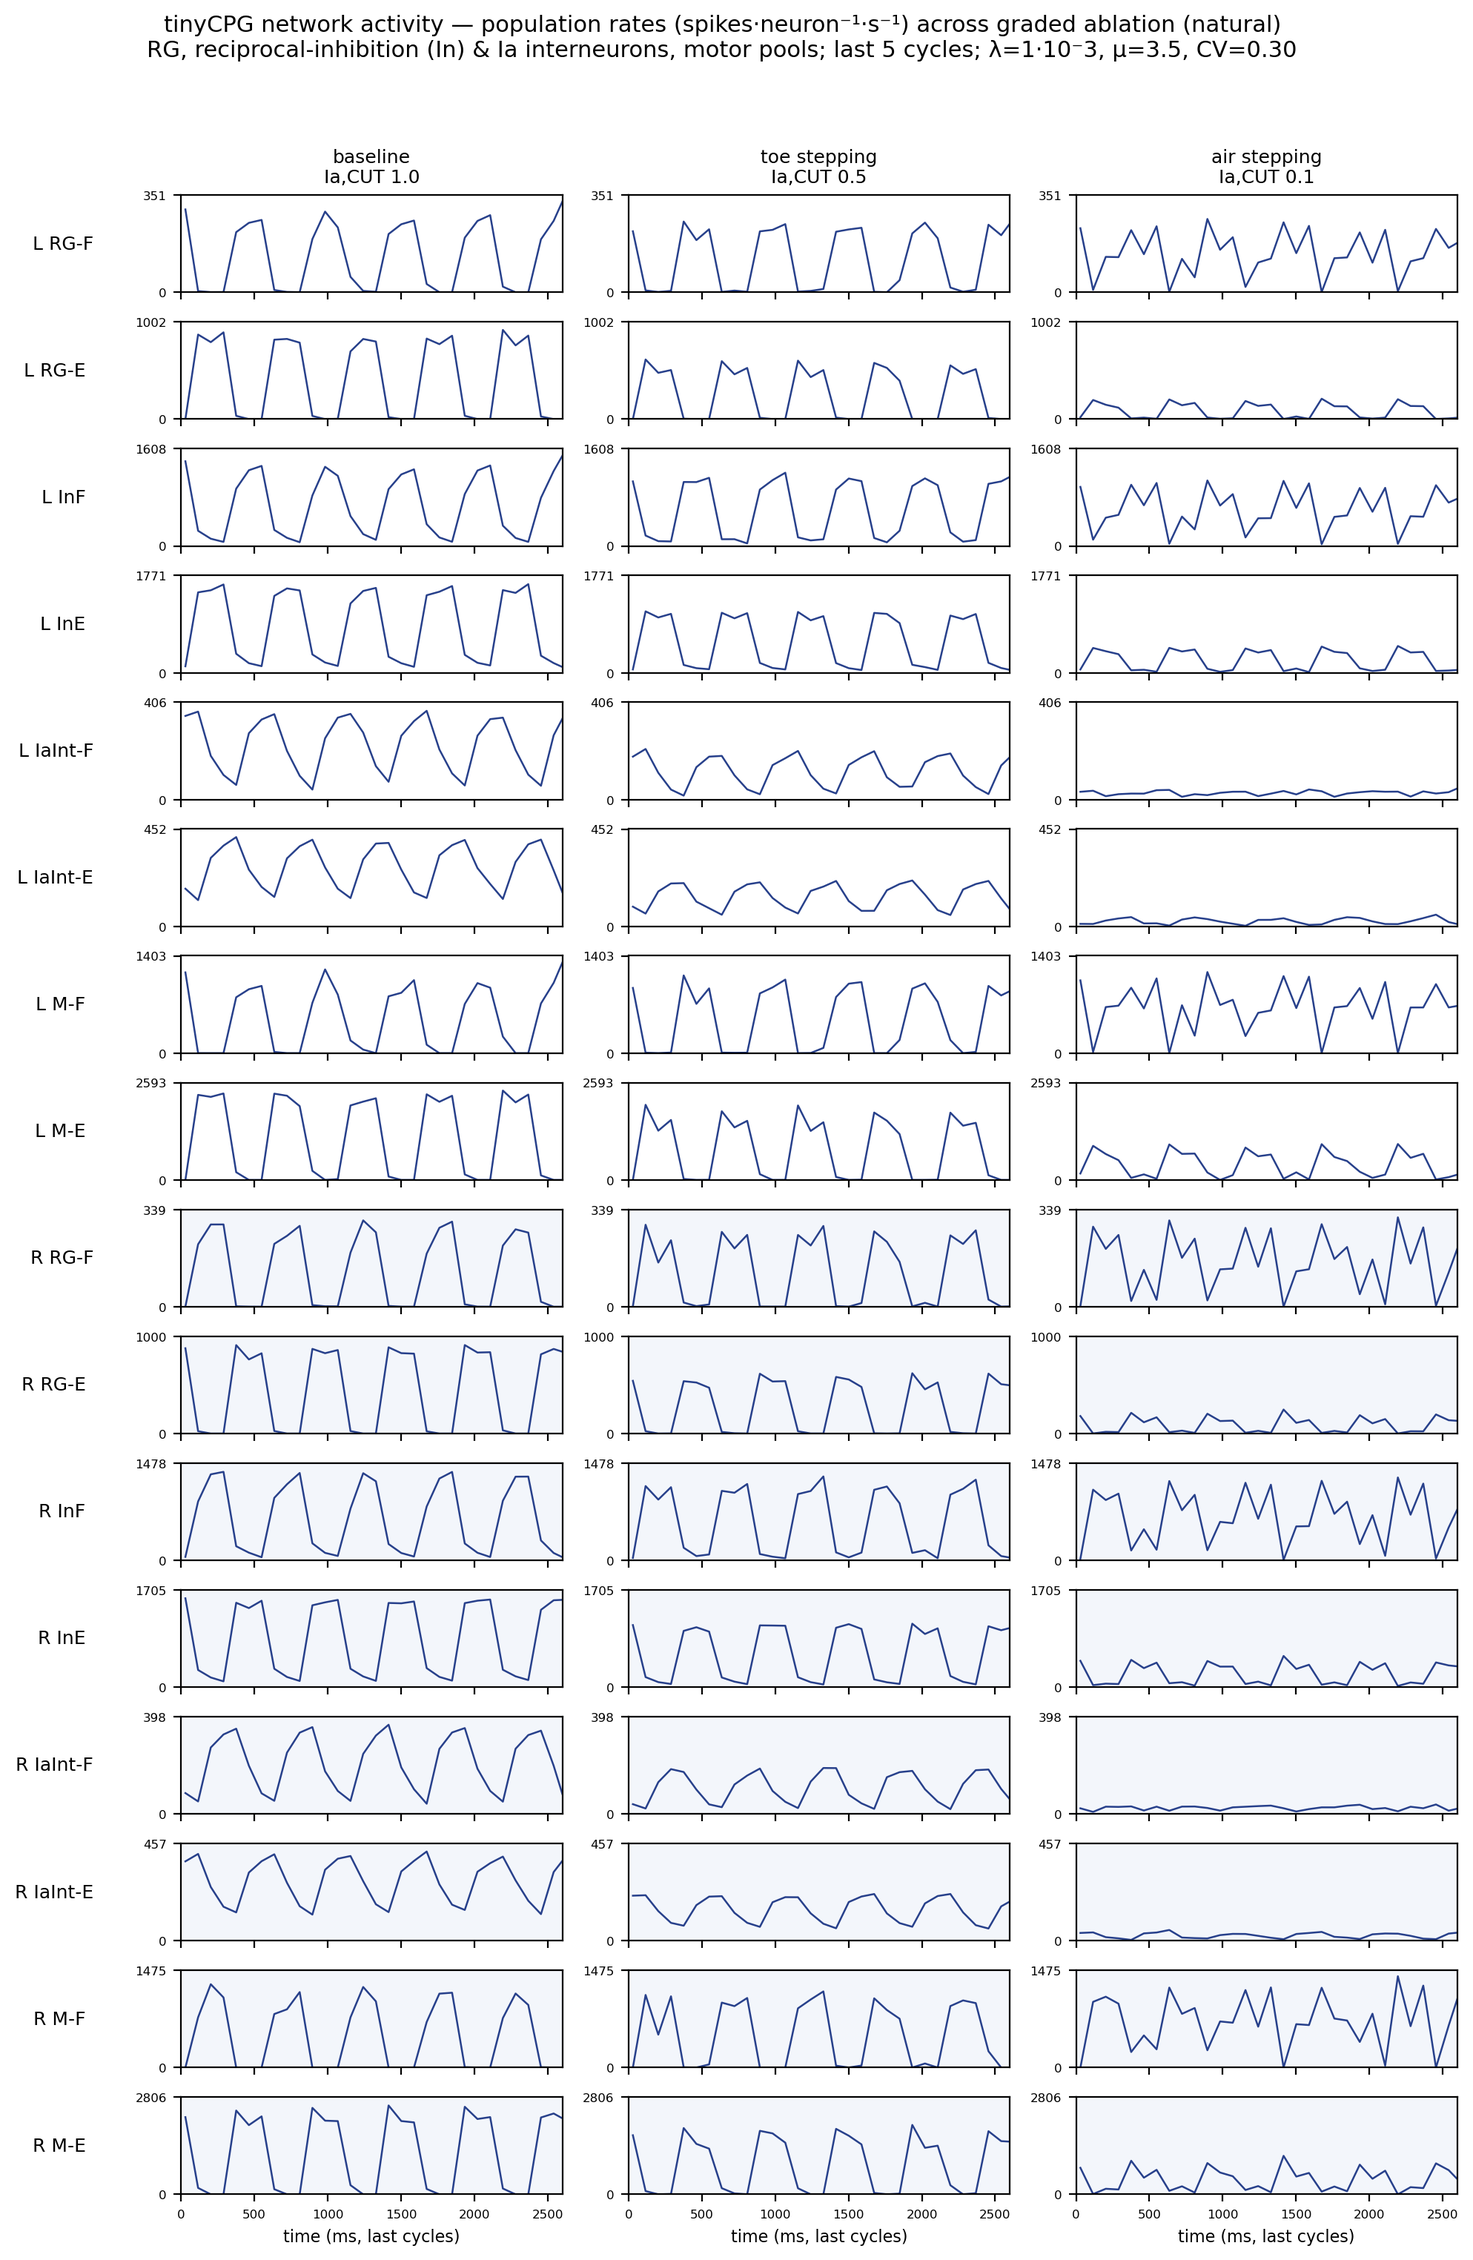
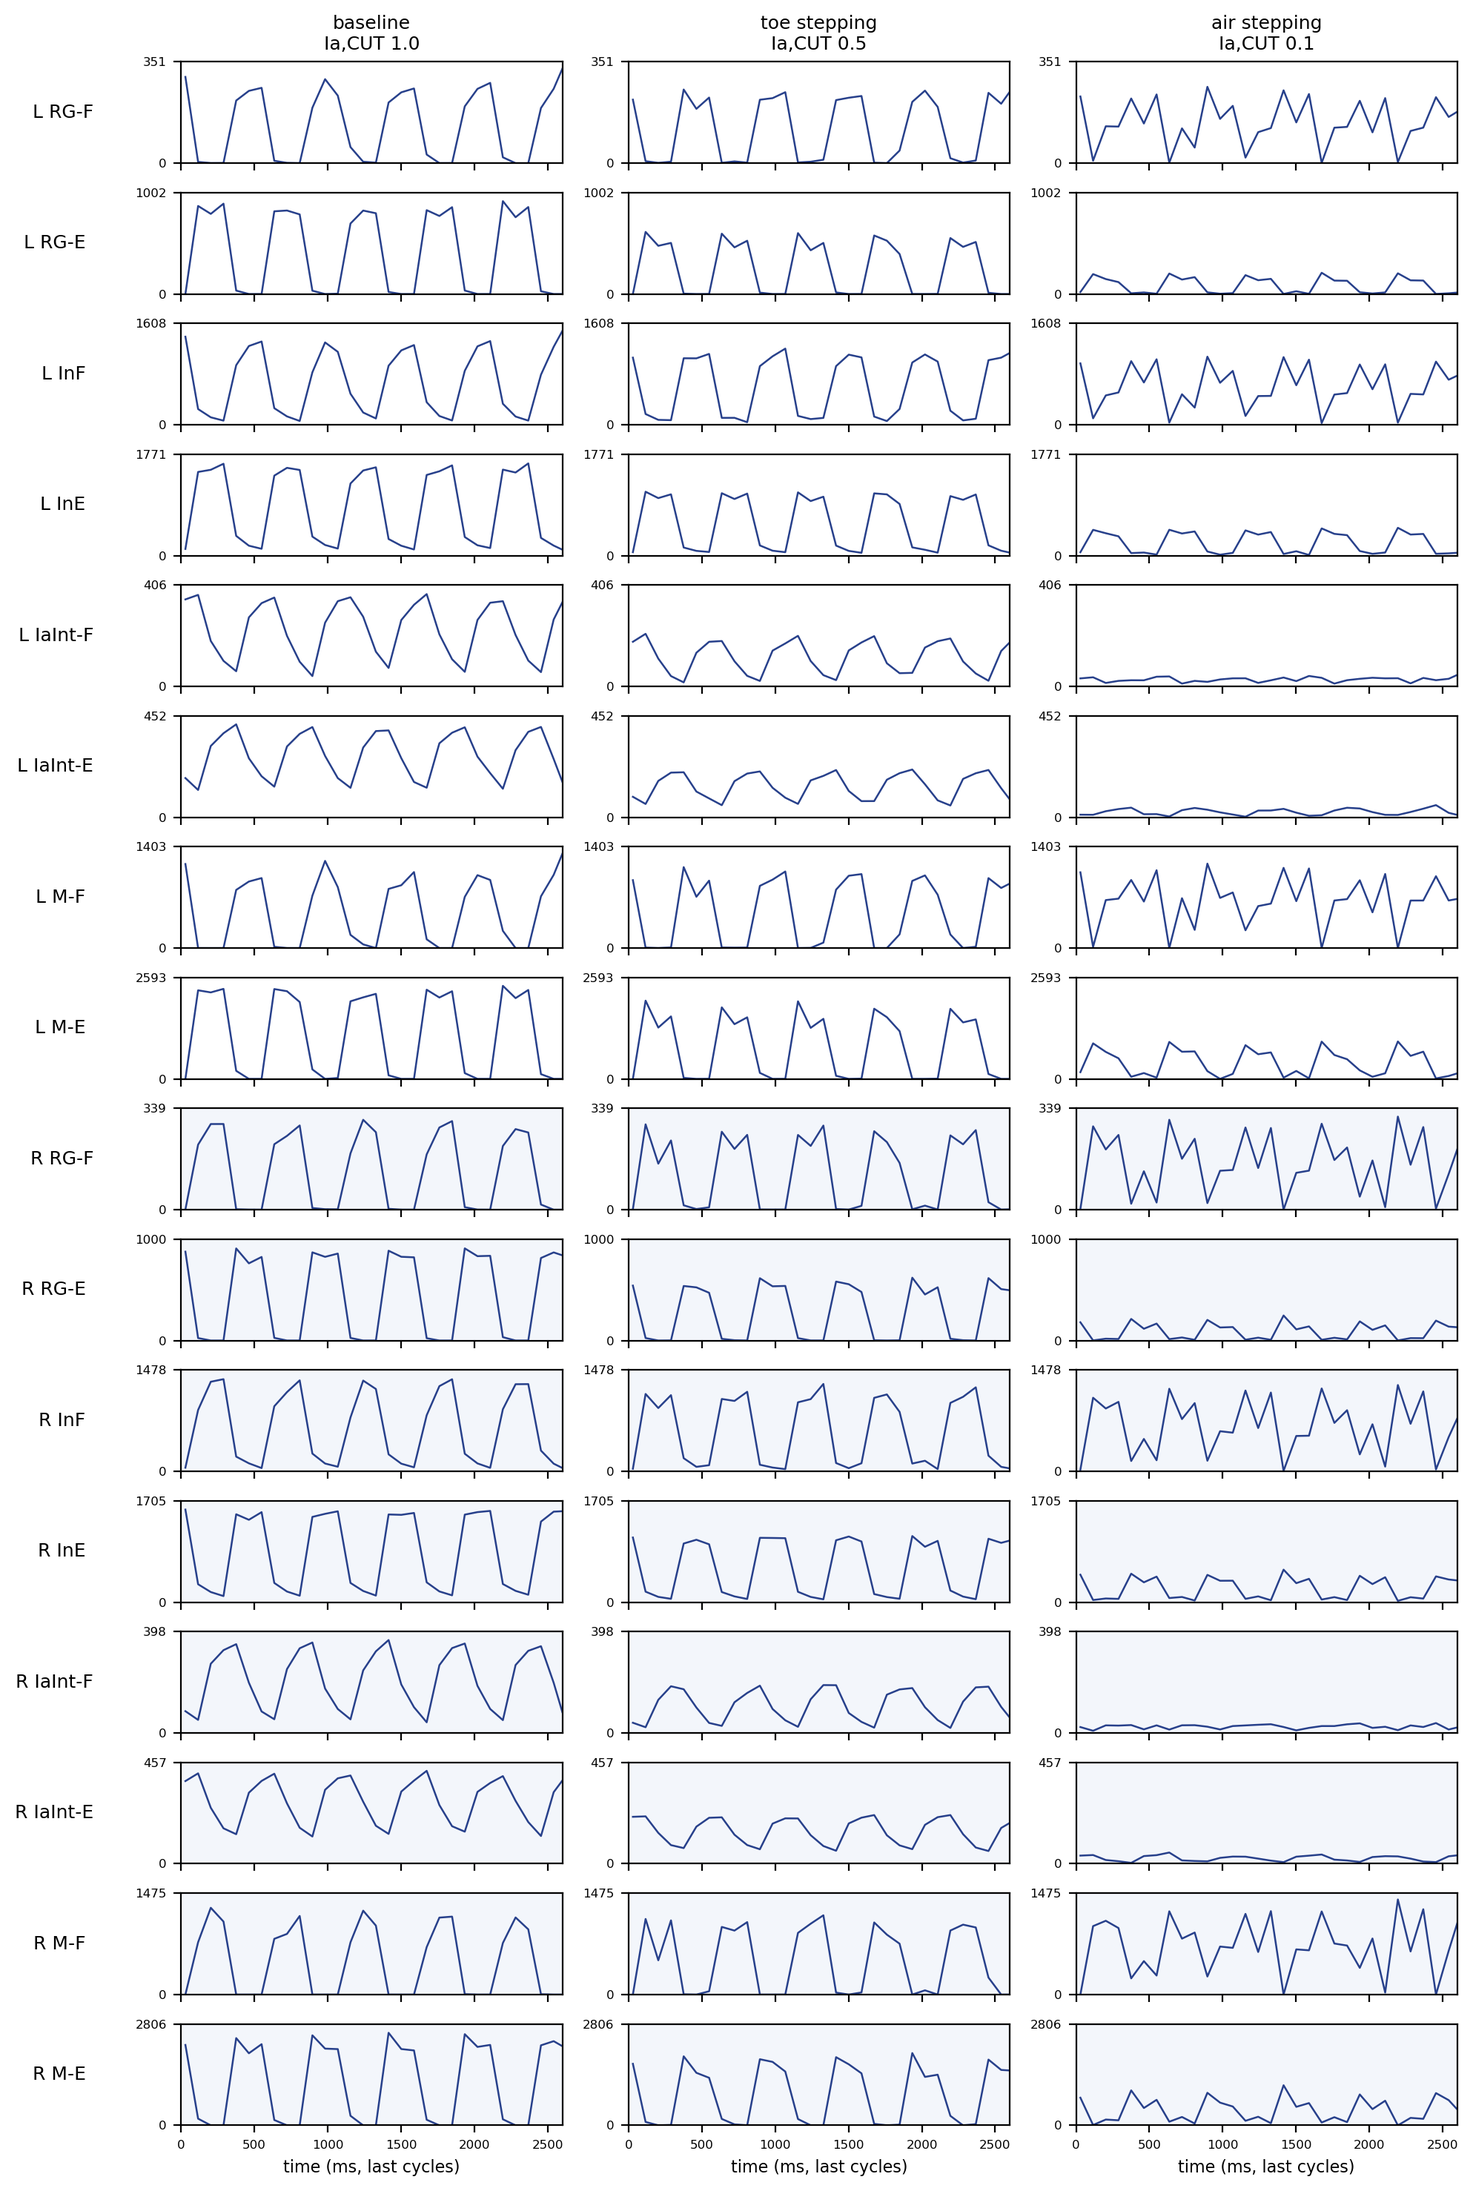
Figure review: strip in-figure titles (item 7), clarify captions (3/8/9), drop BS panel (6)
- Item 7: removed fig.suptitle() from 8 figure scripts (init_convergence, force_stages,
  speed_stdp, network_activity, epidural_contrast, ablation_graded, frozen,
  descending_vs_sensory); all info now lives in the LaTeX captions. Regenerated the
  affected figures into paper/figures/.
- Item 3: fig_init_convergence caption gets a plain "main idea" lead (learned weight is
  a network property, not a tuned value).
- Item 8: fig8_frozen_control caption gets a plain-language lead (is learning necessary
  or is the converged distribution enough?).
- Item 9: fig_descending_vs_sensory caption gets a "does it matter where plasticity
  lives?" lead.
- Item 6: removed the BS->RG-E panel (e) from fig5_speed_stdp (BS is frozen in the
  canonical sensory model; per-projection weights live in fig_stdp_weight_matrix).
  Spectral-concentration tile now spans; text refs to panel (e)/BS updated.

Overleaf zip rebuilt (16 figures, no \au, results todo-free).

diff --git a/paper/sections/results.tex b/paper/sections/results.tex
@@ -1,7 +1,7 @@
 % Results — target 1500-2200 words for PLOS Comp Bio.
 %
 % Anchored on four figures:
-%   Fig 2 (fig2_main.png)             = main combined summary (120 s + STDP convergence)
+%   fig_stdp_weight_matrix.png        = STDP weights: both legs x 3 projections x 5 modes
 %   Fig 5 (fig5_speed_stdp.png)       = Phase A — speed × STDP learning rate matrix
 %   Fig 6 (fig6_ablation_graded.png)  = Phase B — graded sensory ablation × STDP matrix
 %
@@ -27,9 +27,11 @@ the identical attractor.
 \begin{figure}[t]
   \centering
   \includegraphics[width=0.8\textwidth]{fig_init_convergence.png}
-  \caption{\textbf{Initialisation-robustness of STDP self-organisation}
-    (descending arm, medium walk, $\lambda=10^{-3}$, bio-plausible
-    defaults). \textbf{(a)} Mean CUT$\to$RG-E weight trajectory for each
+  \caption{\textbf{Initialisation-robustness of STDP self-organisation.}
+    \emph{Main idea: the learned synaptic weight is a property of the
+    network dynamics, not a value we tune --- whatever the weights start
+    at, STDP drives them to the same place.} Medium walk, $\lambda=10^{-3}$,
+    bio-plausible defaults. \textbf{(a)} Mean CUT$\to$RG-E weight trajectory for each
     of the ten $(\mu,\mathrm{CV})$ initial-weight points (colour = initial
     $\mu$); all converge to the same plateau (dashed) by $t\approx7$--%
     $10\,$s, the smallest initial weights ($\mu=0$) taking only a few
@@ -218,14 +220,15 @@ rate ($\lambda=10^{-3}$) is strongest ($-0.95$)
     a.u.); (c) E$\leftrightarrow$F counter-phase Pearson correlation
     --- note the non-monotonic $\lambda$ dependence, strongest at the
     slowest rate.
-    \textbf{Row 5:} STDP weight trajectories at the medium-walk anchor.
-    (d, e) the two strongest plastic projections: the baseline rate
-    ($\lambda=10^{-3}$, red) plateaus within $\sim$7\,s, the
-    intermediate rate ($10^{-4}$, green) within $\sim$75\,s, and the
-    slow rate ($10^{-5}$, blue) climbs steadily \emph{without}
-    plateauing in 120\,s --- it reaches only $\sim$17\% of the
-    converged weight. (f) Spectral concentration --- fraction of total
-    PSD power within $\pm 10\%$ of the fundamental cycle frequency.}
+    \textbf{Row 5:} (d) CUT$\to$RG-E weight trajectory at the medium-walk
+    anchor: the baseline rate ($\lambda=10^{-3}$, red) plateaus within
+    $\sim$7\,s, the intermediate rate ($10^{-4}$, green) within
+    $\sim$75\,s, and the slow rate ($10^{-5}$, blue) climbs steadily
+    \emph{without} plateauing in 120\,s --- reaching only $\sim$17\% of the
+    converged weight. (The per-projection weight trajectories for all modes
+    are in Fig.~\ref{fig:stdp_matrix}.) (e) Spectral concentration ---
+    fraction of total PSD power within $\pm 10\%$ of the fundamental cycle
+    frequency.}
   \label{fig:speed_stdp}
 \end{figure}
 
@@ -251,10 +254,10 @@ walk, $-0.93$ at medium walk), weakest at the intermediate rate
 ($\lambda=10^{-4}$), and recovers at the baseline rate
 ($\lambda=10^{-3}$); at the fast gait this inverts and the baseline
 rate is strongest ($-0.95$). The weight trajectories
-(Row 5, panels d/e) explain why. At $\lambda=10^{-5}$ the descending
-CUT$\to$RG-E and BS$\to$RG-E weights are still climbing at the end of
-the run (medium-walk CUT$\to$RG-E reaches only $\sim 11$\,pA, versus
-$63$\,pA when fully converged): the plastic descending pathway is \emph{weak},
+(Row 5, panel d; Fig.~\ref{fig:stdp_matrix}) explain why. At
+$\lambda=10^{-5}$ the plastic CUT$\to$RG-E weight is still climbing at the
+end of the run (medium-walk CUT$\to$RG-E reaches only $\sim 11$\,pA, versus
+$63$\,pA when fully converged): the plastic cutaneous pathway is \emph{weak},
 so the rhythm is dominated by the externally paced drive and the
 reciprocal-inhibition core, which together impose a near-perfect
 anti-phase. As $\lambda$ increases and the descending weights reach
@@ -593,11 +596,16 @@ marginal mean and coefficient of variation capture.
 \begin{figure}[t]
   \centering
   \includegraphics[width=0.8\textwidth]{fig8_frozen_control.png}
-  \caption{\textbf{Frozen-weight control --- does the imposed marginal
-    distribution reproduce the clean plastic baseline rhythm?}
-    STDP is switched off and the CUT$\to$RG-E weights are drawn from a
-    prescribed lognormal (BS$\to$RG-E at $0.25\times$ the mean); baseline
-    loading, 520\,ms paced, 30\,s, bio-plausible static defaults.
+  \caption{\textbf{Frozen-weight control --- is learning necessary, or is
+    the converged weight \emph{distribution} enough?}
+    \emph{Main idea: we switch STDP off and hand-impose the CUT$\to$RG-E
+    weights from a prescribed distribution (fixed mean and spread), then ask
+    whether the rhythm is as clean as the learned one. If a hand-imposed
+    distribution sufficed, STDP would be organising nothing beyond the
+    marginal statistics; it falls short, so the learning organises finer
+    weight structure.}
+    STDP off; CUT$\to$RG-E drawn from a prescribed lognormal (BS$\to$RG-E at
+    $0.25\times$ the mean); baseline loading, 520\,ms paced, 30\,s.
     \textbf{(a)} corr$(F_E,F_F)$ versus imposed mean weight at fixed
     tight spread (CV$=0.02$) --- the \emph{weakness} axis.
     \textbf{(b)} corr versus imposed CV at fixed full mean ($63$\,pA)
@@ -732,9 +740,16 @@ hostage to its own gated input under total unloading.
   \centering
   \includegraphics[width=0.8\textwidth]{fig_descending_vs_sensory.png}
   \caption{\textbf{Sensory-sited plasticity --- relocating the learning
-    from the descending to the proprioceptive loop.} Frozen BS$\to$RG +
-    plastic homonymous Ia$\to$RG ($w_{\max}=10$\,pA); production $N$,
-    120\,s, last 20\,s, $\lambda=10^{-3}$.
+    from the descending to the proprioceptive loop.}
+    \emph{Main idea: does it matter \emph{where} the plasticity lives?
+    We move the learning from the brainstem (descending) pathway into the
+    muscle-afferent (Ia) loop and ask whether the gait still works and how
+    it holds up as the limb is unloaded. Answer: identical at normal
+    loading, and it self-rescues toe stepping --- but because the Ia drive
+    is itself gated by loading, it cannot rescue air stepping the way the
+    load-independent epidural-stim drive can.}
+    Frozen BS$\to$RG + plastic homonymous Ia$\to$RG ($w_{\max}=10$\,pA);
+    production $N$, 120\,s, last 20\,s, $\lambda=10^{-3}$.
     \textbf{(a)} counter-phase corr$(F_E,F_F)$ versus speed: the sensory
     arm (green) matches the descending control (blue) across the locomotor
     range --- relocation is cost-free at normal loading.

diff --git a/cpg_speed_stdp_figure.py b/cpg_speed_stdp_figure.py
@@ -369,23 +369,10 @@ def main():
     ax_d.legend(loc="lower right", fontsize=7)
     ax_d.grid(alpha=0.2)
 
-    ax_e = fig.add_subplot(gs[4, 1])
-    for l in LAMBDA_ORDER:
-        d = data.get((anchor_speed, l))
-        if d is None or "bs->rge_mean" not in d["weights"]:
-            continue
-        w = d["weights"]["bs->rge_mean"]
-        tt = d["t"][: w.size]
-        ax_e.plot(tt / 1000.0, w, color=lam_color[l], linewidth=1.2,
-                  label=LAMBDA_LABEL[l].split("\n")[0])
-    ax_e.axhline(30.0, linestyle="--", color="grey", alpha=0.6,
-                 label="W_max (BS) = 30 pA")
-    ax_e.set_xlabel("time (s)"); ax_e.set_ylabel("mean weight (pA)")
-    ax_e.set_title("(e) BS→RG-E weight trajectory\n(medium walk; saturates at W_max)")
-    ax_e.legend(loc="lower right", fontsize=7)
-    ax_e.grid(alpha=0.2)
+    # (BS->RG-E panel removed: BS is frozen in the canonical sensory model, and the
+    #  full weight trajectories are shown per projection in the STDP weight-matrix figure.)
 
-    ax_f = fig.add_subplot(gs[4, 2])
+    ax_f = fig.add_subplot(gs[4, 1:])
     M = np.full((n_rows, n_cols), np.nan)
     for r, s in enumerate(SPEED_ORDER):
         for c, l in enumerate(LAMBDA_ORDER):
@@ -398,7 +385,7 @@ def main():
     ax_f.set_yticks(range(n_rows))
     ax_f.set_yticklabels([SPEED_LABEL[s].split("\n")[0] for s in SPEED_ORDER],
                          fontsize=8)
-    ax_f.set_title("(f) Spectral concentration in\n±10% band around f₀ (higher = sharper)")
+    ax_f.set_title("(e) Spectral concentration in ±10% band around f₀ (higher = sharper)")
     for r in range(n_rows):
         for c in range(n_cols):
             if np.isfinite(M[r, c]):
@@ -409,12 +396,6 @@ def main():
 
     win_desc = (f"first {win_ms/1000:.0f} s" if args.trace_window == "first"
                 else f"last {win_ms/1000:.0f} s")
-    fig.suptitle(
-        "Phase A — Speed × STDP learning-rate matrix\n"
-        f"Self-organisation across rat locomotor range and bio-plausible λ "
-        f"(force traces = {win_desc};  μ=3.5, CV=0.30, 120 s each)",
-        fontsize=12, y=0.997,
-    )
     fig.savefig(out_path, dpi=180, bbox_inches="tight")
     plt.close(fig)
     print(f"[speed_stdp] saved {out_path}")

diff --git a/cpg_force_stages.py b/cpg_force_stages.py
@@ -94,11 +94,6 @@ def main():
                 ax.set_xlabel("time in window (s)")
     axes[0][0].legend(loc="upper right", fontsize=6, ncol=2, framealpha=0.9)
     lamtxt = args.lambda_tag.replace("lam1em", "1·10⁻")
-    fig.suptitle(f"tinyCPG — force profiles across three stages of STDP learning "
-                 f"(leg L, λ={lamtxt}, μ=3.5, CV=0.30)\n"
-                 "rate chosen so convergence spans the 120 s run; counter-phase sharpens "
-                 "as the plastic weight grows (beginning → end)",
-                 fontsize=12, y=1.005)
     fig.tight_layout(rect=(0.04, 0, 1, 0.975))
     fig.savefig(args.out, dpi=args.dpi, bbox_inches="tight")
     plt.close(fig)

diff --git a/cpg_ablation_graded_figure.py b/cpg_ablation_graded_figure.py
@@ -360,12 +360,6 @@ def main():
     win_desc = (f"first {win_ms/1000:.0f} s" if args.trace_window == "first"
                 else f"last {win_ms/1000:.0f} s")
     sim_s = max((d["sim_ms"] for d in data.values()), default=120000.0) / 1000.0
-    fig.suptitle(
-        "Phase B — Graded sensory ablation × STDP learning-rate matrix\n"
-        "Courtine/Lavrov SCI paradigm: baseline → toe stepping → air stepping"
-        f"  (force traces = {win_desc};  μ=3.5, CV=0.30, 520 ms period, {sim_s:.0f} s each)",
-        fontsize=12, y=0.997,
-    )
     fig.savefig(out_path, dpi=180, bbox_inches="tight")
     plt.close(fig)
     print(f"[ablgrad] saved {out_path}")

diff --git a/cpg_network_activity.py b/cpg_network_activity.py
@@ -135,11 +135,6 @@ def main():
 
     mode_desc = ("walking speed" if args.mode == "speed"
                  else f"graded ablation ({'stim' if 'stim' in args.ablation_prefix else 'natural'})")
-    fig.suptitle(
-        f"tinyCPG network activity — population rates (spikes·neuron⁻¹·s⁻¹) across {mode_desc}\n"
-        f"RG, reciprocal-inhibition (In) & Ia interneurons, motor pools; "
-        f"last {args.n_cycles} cycles; λ={lam.replace('lam1em','1·10⁻')}, μ=3.5, CV=0.30",
-        fontsize=11, y=0.998)
     fig.tight_layout(rect=(0.02, 0, 1, 0.975))
     fig.savefig(args.out, dpi=args.dpi, bbox_inches="tight")
     plt.close(fig)

diff --git a/cpg_frozen_figure.py b/cpg_frozen_figure.py
@@ -176,11 +176,6 @@ def main():
             ax.set_ylabel("Force E (solid) / F (dashed)")
             ax.legend(loc="upper right", ncol=2, fontsize=7)
 
-    fig.suptitle(
-        "Frozen-weight control — does the imposed CUT→RG-E distribution "
-        "reproduce the two-regime counter-phase?\n"
-        "(STDP off, baseline loading G$_{Ia}$=1.0, 520 ms paced, 30 s)",
-        fontsize=12, y=0.99)
     fig.savefig(out_path, dpi=180, bbox_inches="tight")
     plt.close(fig)
     print(f"[frozen] saved {out_path}")

diff --git a/cpg_descending_vs_sensory.py b/cpg_descending_vs_sensory.py
@@ -125,8 +125,6 @@ def main():
     ax[1, 1].legend(loc="lower left", fontsize=8)
     ax[1, 1].set_title("(d) Sensory arm keeps E/F force balanced")
 
-    fig.suptitle("Sensory-sited plasticity — relocating the learning from the descending to the "
-                 "proprioceptive loop  (λ=1·10⁻³, last 20 s, production N)", fontsize=12, y=0.995)
     fig.tight_layout(rect=[0, 0, 1, 0.97])
     os.makedirs(os.path.dirname(a.out) or ".", exist_ok=True)
     fig.savefig(a.out, dpi=170, bbox_inches="tight")

diff --git a/cpg_epidural_contrast.py b/cpg_epidural_contrast.py
@@ -158,10 +158,6 @@ def main():
         _trace(ax_d, fn, "(d) Air stepping — natural (CUT gated)")
 
     lam_pretty = lam.replace("lam1em", "λ = 1·10⁻")
-    fig.suptitle(
-        "Epidural-stimulation rescue — paced cutaneous drive preserves stepping under unloading\n"
-        f"(Phase B air-stepping contrast; {lam_pretty}; 520 ms; μ=3.5, CV=0.30)",
-        fontsize=12, y=0.99)
     fig.savefig(args.out, dpi=180, bbox_inches="tight")
     plt.close(fig)
     print(f"[epidural] saved {args.out}")

diff --git a/cpg_init_convergence.py b/cpg_init_convergence.py
@@ -65,9 +65,6 @@ def main():
     axB.set_ylim(conv.mean() - 5, conv.mean() + 5)
     axB.set_xlim(mus.min() - 1, mus.max() + 1); axB.grid(alpha=0.2)
 
-    fig.suptitle("Initialisation-robustness of STDP self-organisation "
-                 "(descending arm, medium walk, λ=10⁻³, bio-plausible defaults)",
-                 fontsize=12, y=1.02)
     fig.tight_layout()
     fig.savefig(args.out, dpi=args.dpi, bbox_inches="tight")
     plt.close(fig)
